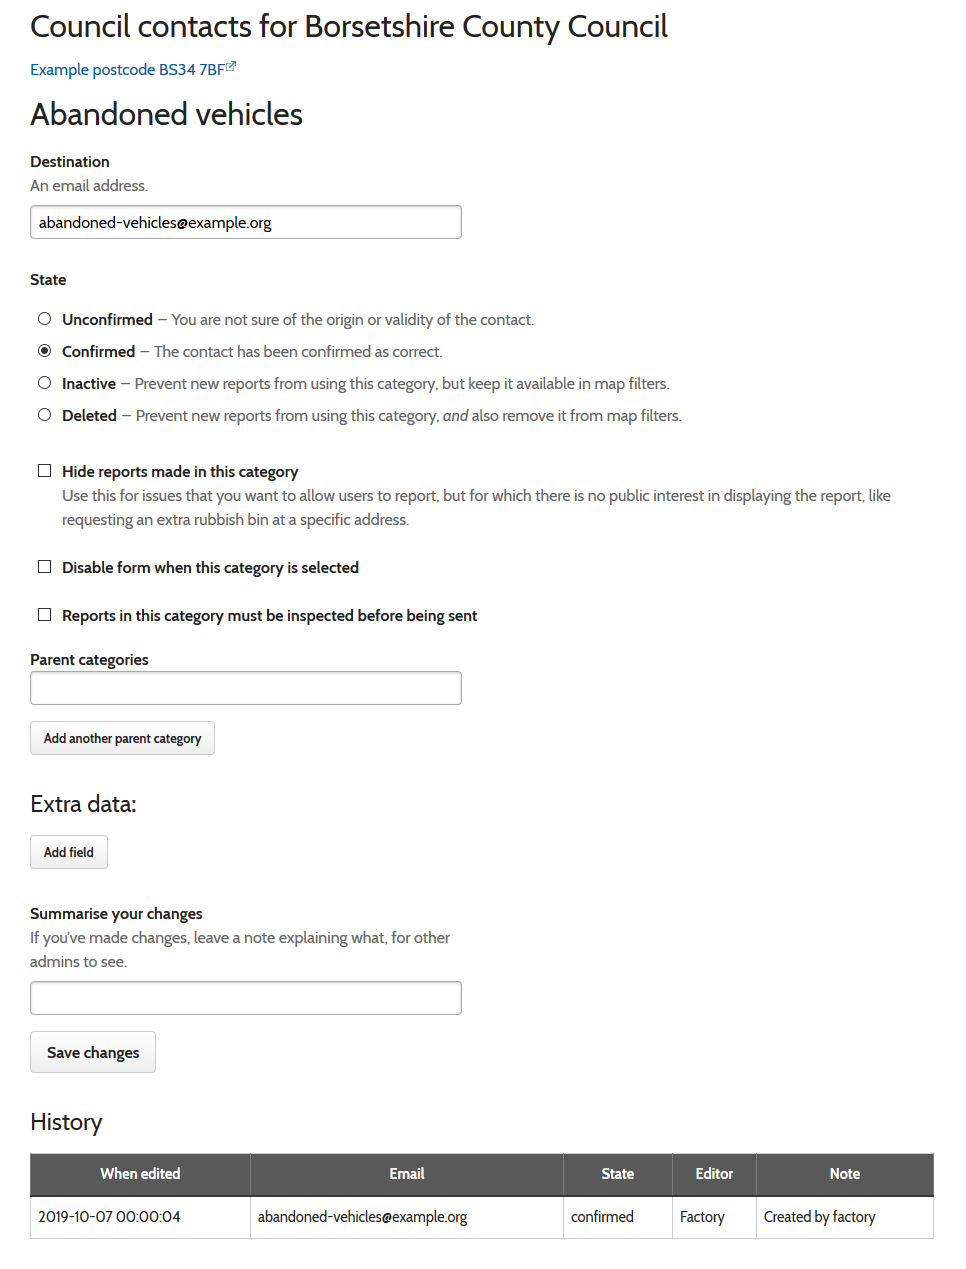
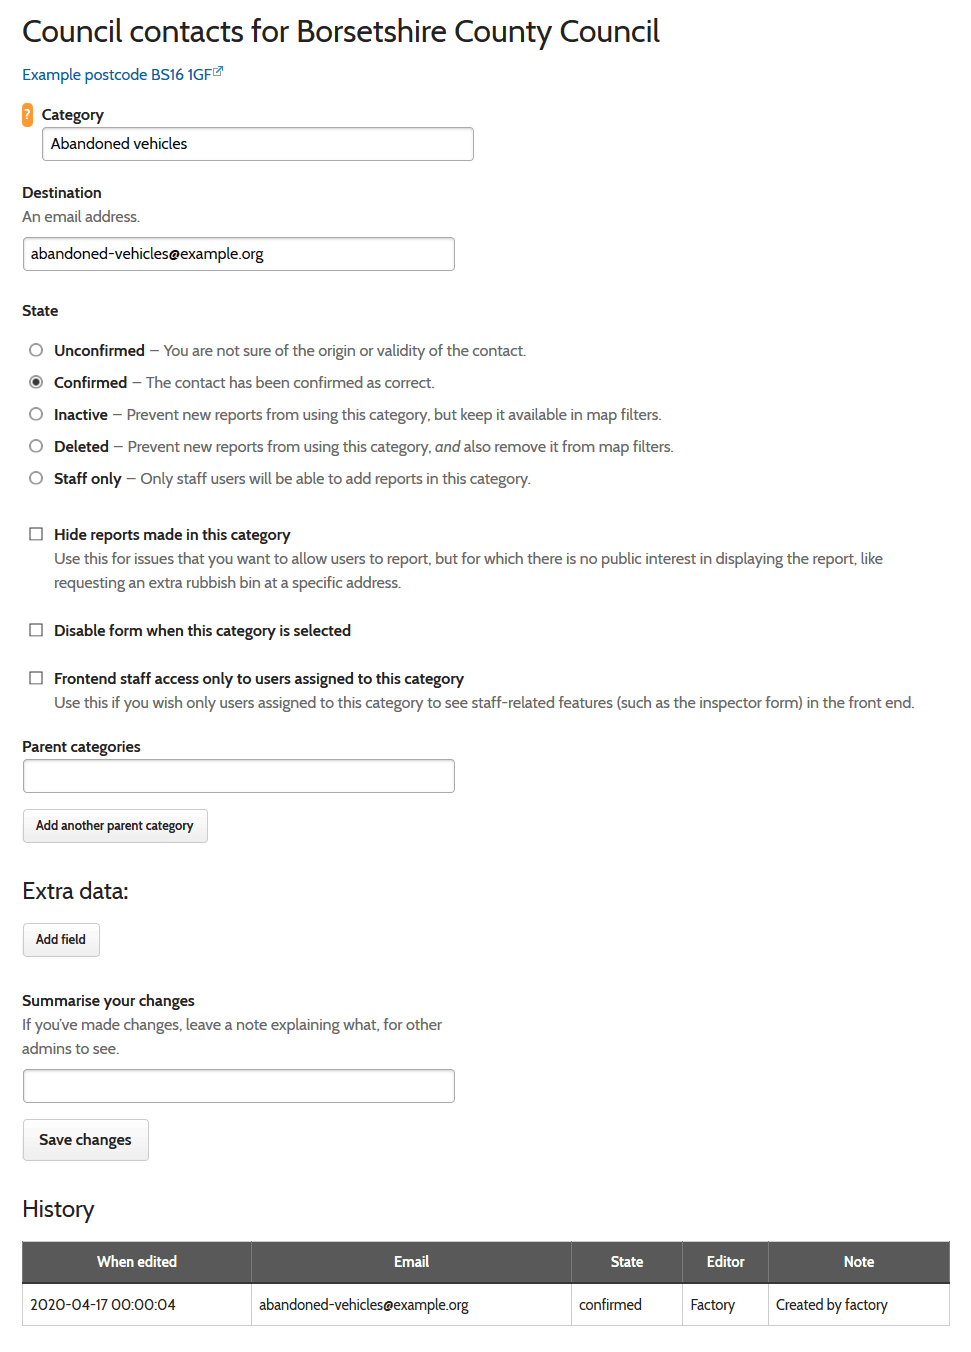
Add assigned_(users|categories)_only functionality
Users with assigned_categories_only will only see staff features on a
report page in their assigned categories.

Users will only see staff features on a report page in a category with
assigned_users_only if it is in their assigned categories.

Changed region(s): [[0.0, 0.0, 0.9938, 0.9835], [0.4658, 0.0922, 0.4969, 0.1229]]

diff --git a/templates/web/base/admin/bodies/contact-form.html b/templates/web/base/admin/bodies/contact-form.html
@@ -81,6 +81,12 @@
       </p>
     [% END %]
 
+    <p class="form-check">
+        <input type="checkbox" name="assigned_users_only" value="1" id="assigned_users_only" [% ' checked' IF contact.extra.assigned_users_only %]>
+        <label for="assigned_users_only">[% loc('Frontend staff access only to users assigned to this category') %]</label>
+        <span class='form-hint'>[% loc('Use this if you wish only users assigned to this category to see staff-related features (such as the inspector form) in the front end.') %]</span>
+    </p>
+
   [% IF body.can_be_devolved %]
     <div class="admin-hint">
       <p>
@@ -125,7 +131,7 @@
     <h2>[% loc('Extra data:') %] </h2>
     <dl>
       [% FOR pair IN contact.get_extra_metadata %]
-        [% NEXT IF pair.key == 'group' %]
+        [% NEXT IF pair.key == 'group' OR pair.key == 'assigned_users_only' %]
         <dt>[% pair.key %]</dt> <dd>[% pair.value OR '<em>-</em>' %]</dd>
       [% END %]
     </dl>

diff --git a/templates/web/base/report/update/form_update.html b/templates/web/base/report/update/form_update.html
@@ -29,7 +29,7 @@
 [% TRY %][% PROCESS 'report/update/before_update.html' %][% CATCH file %][% END %]
 
 <label for="form_update">[% loc( 'Update' ) %]</label>
-[% IF c.user AND (c.user.is_superuser OR c.user.belongs_to_body(problem.bodies_str)) %]
+[% IF relevant_staff_user %]
   [% INCLUDE 'admin/response_templates_select.html' for='form_update' %]
 [% END %]
 [% IF field_errors.update %]
@@ -37,7 +37,7 @@
 [% END %]
 <textarea rows="7" cols="30" name="update" class="form-control" id="form_update" required>[% update.text | html %]</textarea>
 
-[% IF c.user AND (c.user.is_superuser OR c.user.belongs_to_body(problem.bodies_str)) %]
+[% IF relevant_staff_user %]
     <label for="state">[% loc( 'State' ) %]</label>
     [% INCLUDE 'report/inspect/state_groups_select.html' %]
 [% ELSE %]

diff --git a/templates/web/base/admin/users/form.html b/templates/web/base/admin/users/form.html
@@ -101,6 +101,21 @@
         [% END %]
 
 
+      [% IF user.from_body AND c.cobrand.moniker != 'zurich' %]
+        <li>
+          <div class="admin-hint">
+            <p>
+              [% loc("This means the user will only see front end staff features (such as the inspector form) in their assigned categories.") %]
+            </p>
+          </div>
+
+          <label>
+            [% loc('Assigned categories only') %]:
+            <input type="checkbox" id="assigned_categories_only" name="assigned_categories_only"[% user.extra.assigned_categories_only ? ' checked' : '' %]>
+          </label>
+        </li>
+      [% END %]
+
       [% IF c.cobrand.moniker != 'zurich' %]
         <li>
           <div class="admin-hint">

diff --git a/templates/web/base/report/display_tools.html b/templates/web/base/report/display_tools.html
@@ -1,7 +1,7 @@
 <div class="shadow-wrap">
     <ul id="key-tools">
       [% IF c.user_exists OR NOT problem.non_public %]
-        [% IF c.user_exists AND c.cobrand.users_can_hide AND c.user.belongs_to_body( problem.bodies_str ) %]
+        [% IF c.cobrand.users_can_hide AND relevant_staff_user %]
         <li><form method="post" action="/report/[% problem.id %]/delete" id="remove-from-site-form">
             <input type="hidden" name="token" value="[% csrf_token %]">
             <button type="submit" id="key-tool-report-abuse" class="abuse" data-confirm="[% loc('Are you sure?') %]" name="remove_from_site">[% loc('Remove from site') %]</button>

diff --git a/CHANGELOG.md b/CHANGELOG.md
@@ -17,6 +17,7 @@
         - Interface for disabling updates/reopening for certain categories. #2991 #2992
         - Include group in CSV export if enabled. #2994
         - In category admin, group already shown elsewhere.
+        - Add assigned_(users|categories)_only functionality.
     - Bugfixes:
         - Application user in Docker container can't install packages. #2914
         - Look at all categories when sending reports.
